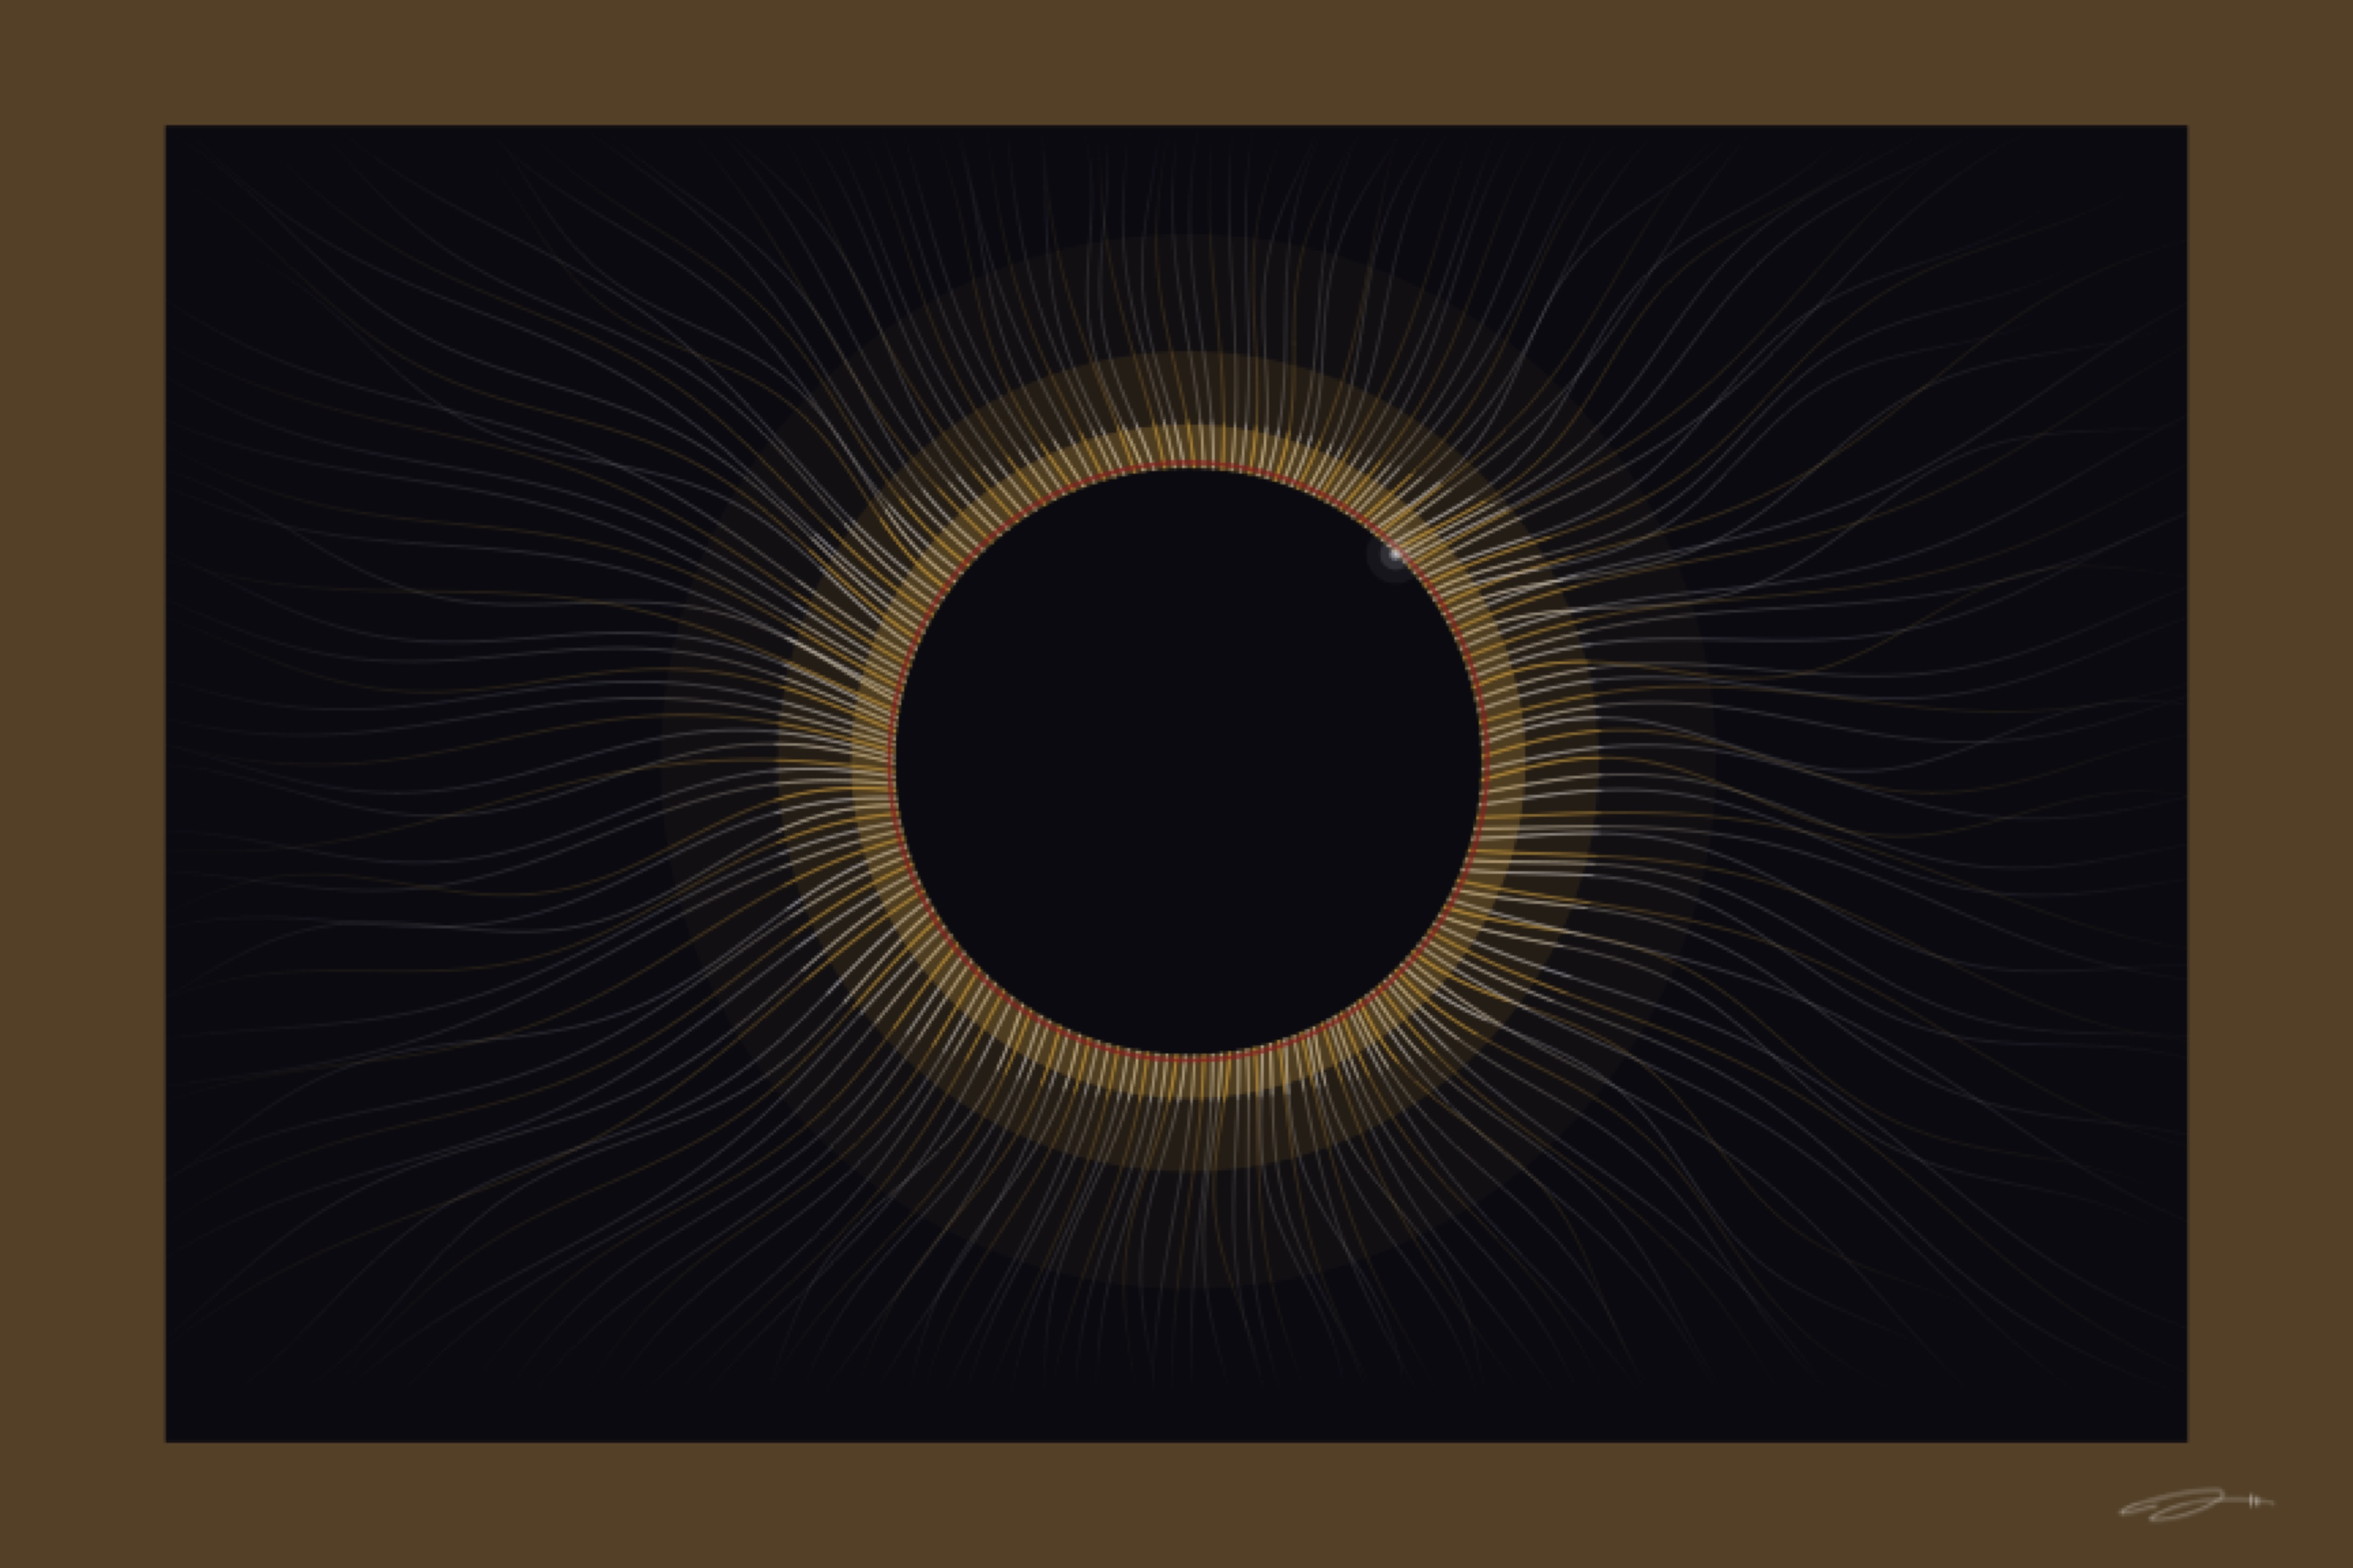
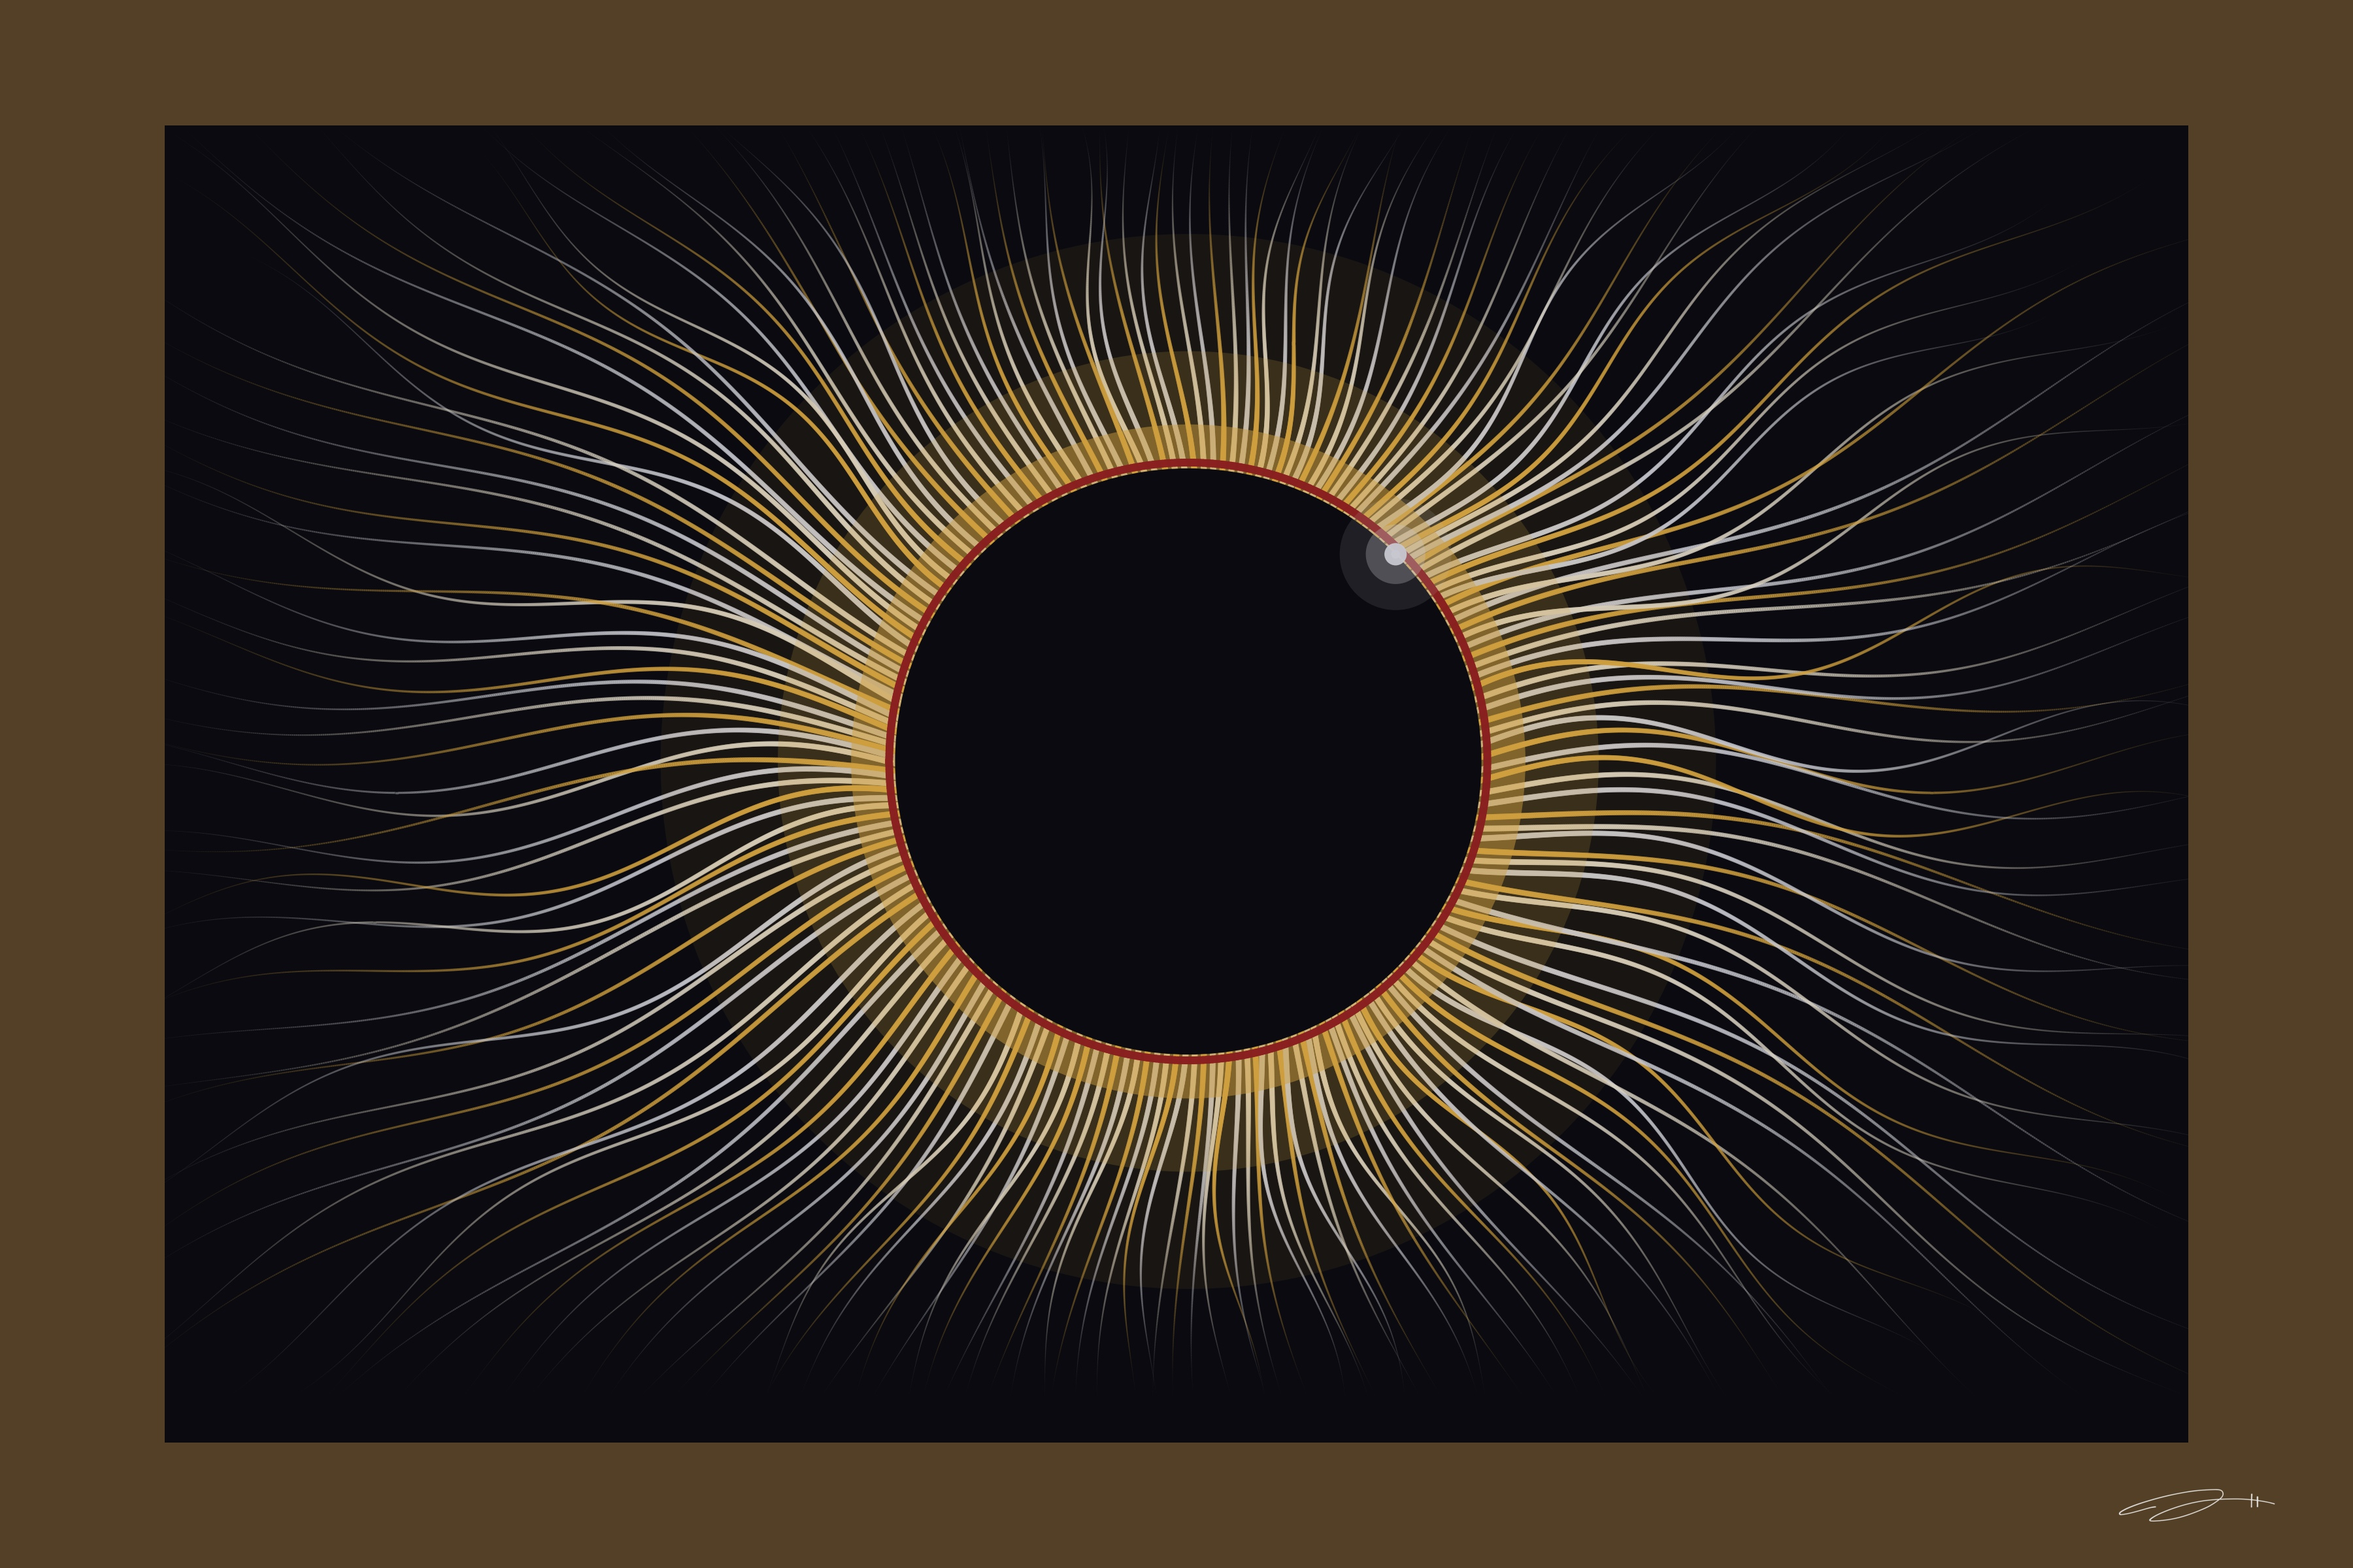
Punch up Eclipse web thumbnail — alpha 1.9, lineweight 1.9
Refactor render to accept alpha_boost and lw_boost parameters.
Print PDF stays faithful; web JPG now reads boldly at homepage
thumbnail size — corona streamers clearly visible, chromosphere
ring and diamond ring glow pop against the black.

Changed region(s): [[0.1556, 0.125, 0.8711, 0.8438], [0.9022, 0.9375, 0.9644, 0.9688], [0.8089, 0.2812, 0.84, 0.3125]]

diff --git a/mathematical_affect/pieces/awe/awe_eclipse.py b/mathematical_affect/pieces/awe/awe_eclipse.py
@@ -102,18 +102,9 @@ def draw_tapered(ax, xs, ys, col, lw_start, lw_end, a_start, a_end, zo=4):
 
 SCRIPT_DIR = os.path.dirname(os.path.abspath(__file__))
 OUTPUT_DIR = os.path.join(SCRIPT_DIR, '..', '..', 'output')
+PRINT_DIR = os.path.join(SCRIPT_DIR, '..', '..', '..', 'public', 'prints', 'awe')
 
-def save(fig, name):
-    os.makedirs(OUTPUT_DIR, exist_ok=True)
-    if not name.endswith('.pdf'):
-        name = name + '.pdf'
-    fig.subplots_adjust(left=0, right=1, top=1, bottom=0)
-    fig.savefig(os.path.join(OUTPUT_DIR, name),
-                format='pdf', facecolor=MARGIN_COLOR)
-    plt.close(fig)
-    print(f'saved {name}')
-
-def render():
+def render(alpha_boost=1.0, lw_boost=1.0):
     fig, ax = make_fig()
     np.random.seed(11)
     moon_r = PW * 0.14
@@ -135,16 +126,22 @@ def render():
         if mask.sum() < 3: continue
         col = CORONA if i % 3 == 0 else (STARLIGHT if i % 3 == 1 else IVORY)
         for seg_xs, seg_ys in split_segments(xs, ys, mask):
-            draw_tapered(ax, seg_xs, seg_ys, col, 1.2, 0.05, 0.40, 0.01, zo=3)
+            draw_tapered(ax, seg_xs, seg_ys, col,
+                          1.2 * lw_boost, 0.05 * lw_boost,
+                          min(0.40 * alpha_boost, 0.95),
+                          min(0.01 * alpha_boost, 0.95), zo=3)
     # Inner corona glow
     for r_, a_ in [(moon_r * 1.8, 0.04), (moon_r * 1.4, 0.10), (moon_r * 1.15, 0.25)]:
         ax.add_patch(Circle((cx, cy), radius=r_,
-                    facecolor=rgba(CORONA, a_), edgecolor='none', zorder=4))
+                    facecolor=rgba(CORONA, min(a_ * alpha_boost, 0.95)),
+                    edgecolor='none', zorder=4))
     # Chromosphere — thin red ring
     theta = np.linspace(0, 2 * np.pi, 600)
     cr_xs = cx + moon_r * 1.02 * np.cos(theta)
     cr_ys = cy + moon_r * 1.02 * np.sin(theta)
-    draw_lc(ax, cr_xs, cr_ys, CRIMSON, lw=1.5, alpha=0.5, zo=5)
+    draw_lc(ax, cr_xs, cr_ys, CRIMSON,
+            lw=1.5 * lw_boost,
+            alpha=min(0.5 * alpha_boost, 0.95), zo=5)
     # Moon disk — pure black
     ax.add_patch(Circle((cx, cy), radius=moon_r,
                 facecolor=rgba(BG, 1.0), edgecolor='none', zorder=6))
@@ -153,10 +150,33 @@ def render():
     dr_x = cx + moon_r * np.cos(dr_angle)
     dr_y = cy + moon_r * np.sin(dr_angle)
     for r_, a_ in [(0.15, 0.06), (0.08, 0.15), (0.03, 0.50), (0.012, 0.90)]:
-        ax.add_patch(Circle((dr_x, dr_y), radius=r_,
-                    facecolor=rgba(STARLIGHT, a_), edgecolor='none', zorder=8))
+        ax.add_patch(Circle((dr_x, dr_y), radius=r_ * lw_boost,
+                    facecolor=rgba(STARLIGHT, min(a_ * alpha_boost, 0.98)),
+                    edgecolor='none', zorder=8))
     add_signature(fig, ax, MARGIN_COLOR, margin_piece=True, margin_bottom=FIG_H * 0.08)
-    save(fig, "awe_eclipse.pdf")
+    return fig
+
 
 if __name__ == '__main__':
-    render()
+    os.makedirs(OUTPUT_DIR, exist_ok=True)
+    os.makedirs(PRINT_DIR, exist_ok=True)
+    print("═══ Awe: Eclipse ═══")
+
+    # Print PDF — faithful to the original
+    fig = render(alpha_boost=1.0, lw_boost=1.0)
+    fig.subplots_adjust(left=0, right=1, top=1, bottom=0)
+    pdf_path = os.path.join(OUTPUT_DIR, "awe_eclipse.pdf")
+    fig.savefig(pdf_path, format='pdf', facecolor=MARGIN_COLOR)
+    print(f"  saved {pdf_path}")
+    plt.close(fig)
+
+    # Punchier version for web thumbnail
+    fig = render(alpha_boost=1.9, lw_boost=1.9)
+    fig.subplots_adjust(left=0, right=1, top=1, bottom=0)
+    jpg_path = os.path.join(PRINT_DIR, "awe_eclipse.jpg")
+    fig.savefig(jpg_path, facecolor=MARGIN_COLOR, dpi=DPI,
+                pil_kwargs={"quality": 96})
+    print(f"  saved {jpg_path}")
+    plt.close(fig)
+
+    print("═══ Done ═══")
